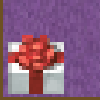
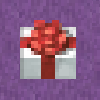
Change position of gifts

diff --git a/maps.js b/maps.js
@@ -300,16 +300,16 @@ let map5_E = [['water_1', 'water_horizontal', 'water_horizontal', 'water_horizon
 ['water_full', 'water_full', 'water_full', 'water_full', 'water_full', 'water_full', 'water_full', 'water_full', 'water_full', 'water_full', 'water_full']]
 
 let buildingInterior = [['flower_carpet_left_up', 'flower_carpet_up', 'flower_carpet_up', 'flower_carpet_right_up', 'floor_up', 'floor_up', 'picture2', 'fireplace', 'picture3', 'floor_up', 'floor_right_up'],
-['night_stand', 'bed', 'carpet_inside', 'gift2', 'floor_inside', 'floor_inside', 'floor_inside', 'sofa2', 'floor_inside', 'floor_inside', 'floor_right'],
-['carpet_left', 'carpet_inside', 'carpet_inside', 'carpet_right', 'floor_inside', 'floor_inside', 'floor_inside', 'floor_inside', 'floor_inside', 'floor_inside', 'floor_right'],
-['carpet_left', 'carpet_inside', 'table', 'picture1', 'floor_inside', 'floor_inside', 'dining_table_left', 'dining_table_center', 'dining_table_right', 'floor_inside', 'gift4'],
+['night_stand', 'bed', 'carpet_inside', 'carpet_right', 'floor_inside', 'floor_inside', 'floor_inside', 'sofa2', 'floor_inside', 'gift4', 'floor_right'],
+['carpet_left', 'carpet_inside', 'gift2', 'carpet_right', 'floor_inside', 'floor_inside', 'floor_inside', 'floor_inside', 'floor_inside', 'floor_inside', 'floor_right'],
+['carpet_left', 'carpet_inside', 'table', 'picture1', 'floor_inside', 'floor_inside', 'dining_table_left', 'dining_table_center', 'dining_table_right', 'floor_inside', 'floor_right'],
 ['carpet_left_down', 'carpet_inside', 'carpet_inside', 'carpet_right_down', 'floor_inside', 'floor_inside', 'floor_inside', 'floor_inside', 'floor_inside', 'floor_inside', 'food1'],
 ['floor_left_flower', 'floor_inside', 'floor_inside', 'floor_inside', 'floor_inside', 'floor_inside', 'floor_inside', 'floor_inside', 'floor_inside', 'floor_inside', 'food2'],
 ['closet2', 'carpet2_inside', 'carpet2_inside', 'closet1', 'floor_inside', 'floor_inside', 'floor_inside', 'floor_inside', 'floor_inside', 'floor_inside', 'floor_right'],
 ['carpet2_left', 'carpet2_inside', 'carpet2_inside', 'carpet2_right', 'floor_inside', 'floor_inside', 'floor_inside', 'mirror', 'tiles_inside', 'tiles_up', 'toilet'],
-['floor_left_flower2', 'carpet2_inside', 'carpet2_inside', 'sofa', 'floor_inside', 'floor_inside', 'floor_inside', 'sink', 'tiles_inside', 'tiles_inside', 'tiles_right'],
-['carpet2_left', 'carpet2_inside', 'carpet2_inside', 'carpet2_right', 'floor_inside', 'floor_inside', 'floor_inside', 'tiles_left', 'tiles_inside', 'bath', 'tiles_right'],
-['gift3', 'bed2', 'carpet2_down', 'carpet2_right_down', 'floor_right_down', 'floor_down', 'floor_left_down', 'bath_flower', 'tiles_down', 'tiles_down', 'gift1']]
+['floor_left_flower2', 'carpet2_inside', 'carpet2_inside', 'sofa', 'floor_inside', 'floor_inside', 'floor_inside', 'sink', 'tiles_inside', 'gift1', 'tiles_right'],
+['carpet2_left', 'gift3', 'carpet2_inside', 'carpet2_right', 'floor_inside', 'floor_inside', 'floor_inside', 'tiles_left', 'tiles_inside', 'bath', 'tiles_right'],
+['carpet2_left_down', 'bed2', 'carpet2_down', 'carpet2_right_down', 'floor_right_down', 'floor_down', 'floor_left_down', 'bath_flower', 'tiles_down', 'tiles_down', 'tiles_right_down']]
 
 let maps = [[map1_A,map1_B,map1_C,map1_D,map1_E],[map2_A,map2_B,map2_C,map2_D,map2_E],[map3_A,map3_B,map3_C,map3_D,map3_E],[map4_A,map4_B,map4_C,map4_D,map4_E],[map5_A,map5_B,map5_C,map5_D,map5_E]]
 let mini_maps = [["map1_A","map1_B","map1_C","map1_D","map1_E"],["map2_A","map2_B","map2_C","map2_D","map2_E"],["map3_A","map3_B","map3_C","map3_D","map3_E"],["map4_A","map4_B","map4_C","map4_D","map4_E"],["map5_A","map5_B","map5_C","map5_D","map5_E"]]

diff --git a/move.js b/move.js
@@ -7,7 +7,7 @@ const y = 1
 function try_collision(direction){
     console.log(player);
     let map = maps[player['position_map'][0]][player['position_map'][1]]
-    let collision_blocks = ["water_vertical","water_horizontal",'block',"window",'wall',"water","water_2","water_left","water_merge","water_merge_2","water_right","waterfall","woda","woda_1","woda_2","woda_3","woda_4","wall_2","wall_3","ruins_2","flower_carpet_left_up","flower_carpet_up","flower_carpet_right_up","floor_up","picture2","fireplace","picture3","floor_right_up","night_stand","floor_right","carpet_right","carpet_left","table","picture1","dining_table_left","dining_table_center","dining_table_right","carpet_left_down","food1","floor_left_flower","food2","closet2","closet1","carpet2_left","carpet2_right","mirror","tiles_up","toilet","floor_left_flower2","sofa","sink","tiles_right","tiles_left","carpet2_down","carpet2_right_down","floor_right_down","floor_left_down","bath_flower"]
+    let collision_blocks = ["water_vertical","water_horizontal",'block',"window",'wall',"water","water_2","water_left","water_merge","water_merge_2","water_right","waterfall","woda","woda_1","woda_2","woda_3","woda_4","wall_2","wall_3","ruins_2","flower_carpet_left_up","flower_carpet_up","flower_carpet_right_up","carpet_right_down","floor_up","picture2","fireplace","picture3","floor_right_up","night_stand","floor_right","carpet_right","carpet_left","table","picture1","dining_table_left","dining_table_center","dining_table_right","carpet_left_down","carpet2_left_down","food1","bed2","floor_left_flower","food2","closet2","closet1","carpet2_left","carpet2_right","mirror","tiles_up","toilet","floor_left_flower2","sofa","sink","tiles_right","tiles_left","tiles_down","tiles_right_down","carpet2_down","carpet2_right_down","floor_right_down","floor_right","floor_left","floor_left_down","bath_flower"]
     if(collision_blocks.includes(map[player['y']][player['x']]))  {
         if(direction == 'up')document.getElementById("Character").style.top = parseInt(document.getElementById("Character").style.top ) + (runValue*5) + "px"
         if(direction == 'down') document.getElementById("Character").style.top = parseInt(document.getElementById("Character").style.top ) - (runValue*5) + "px"
